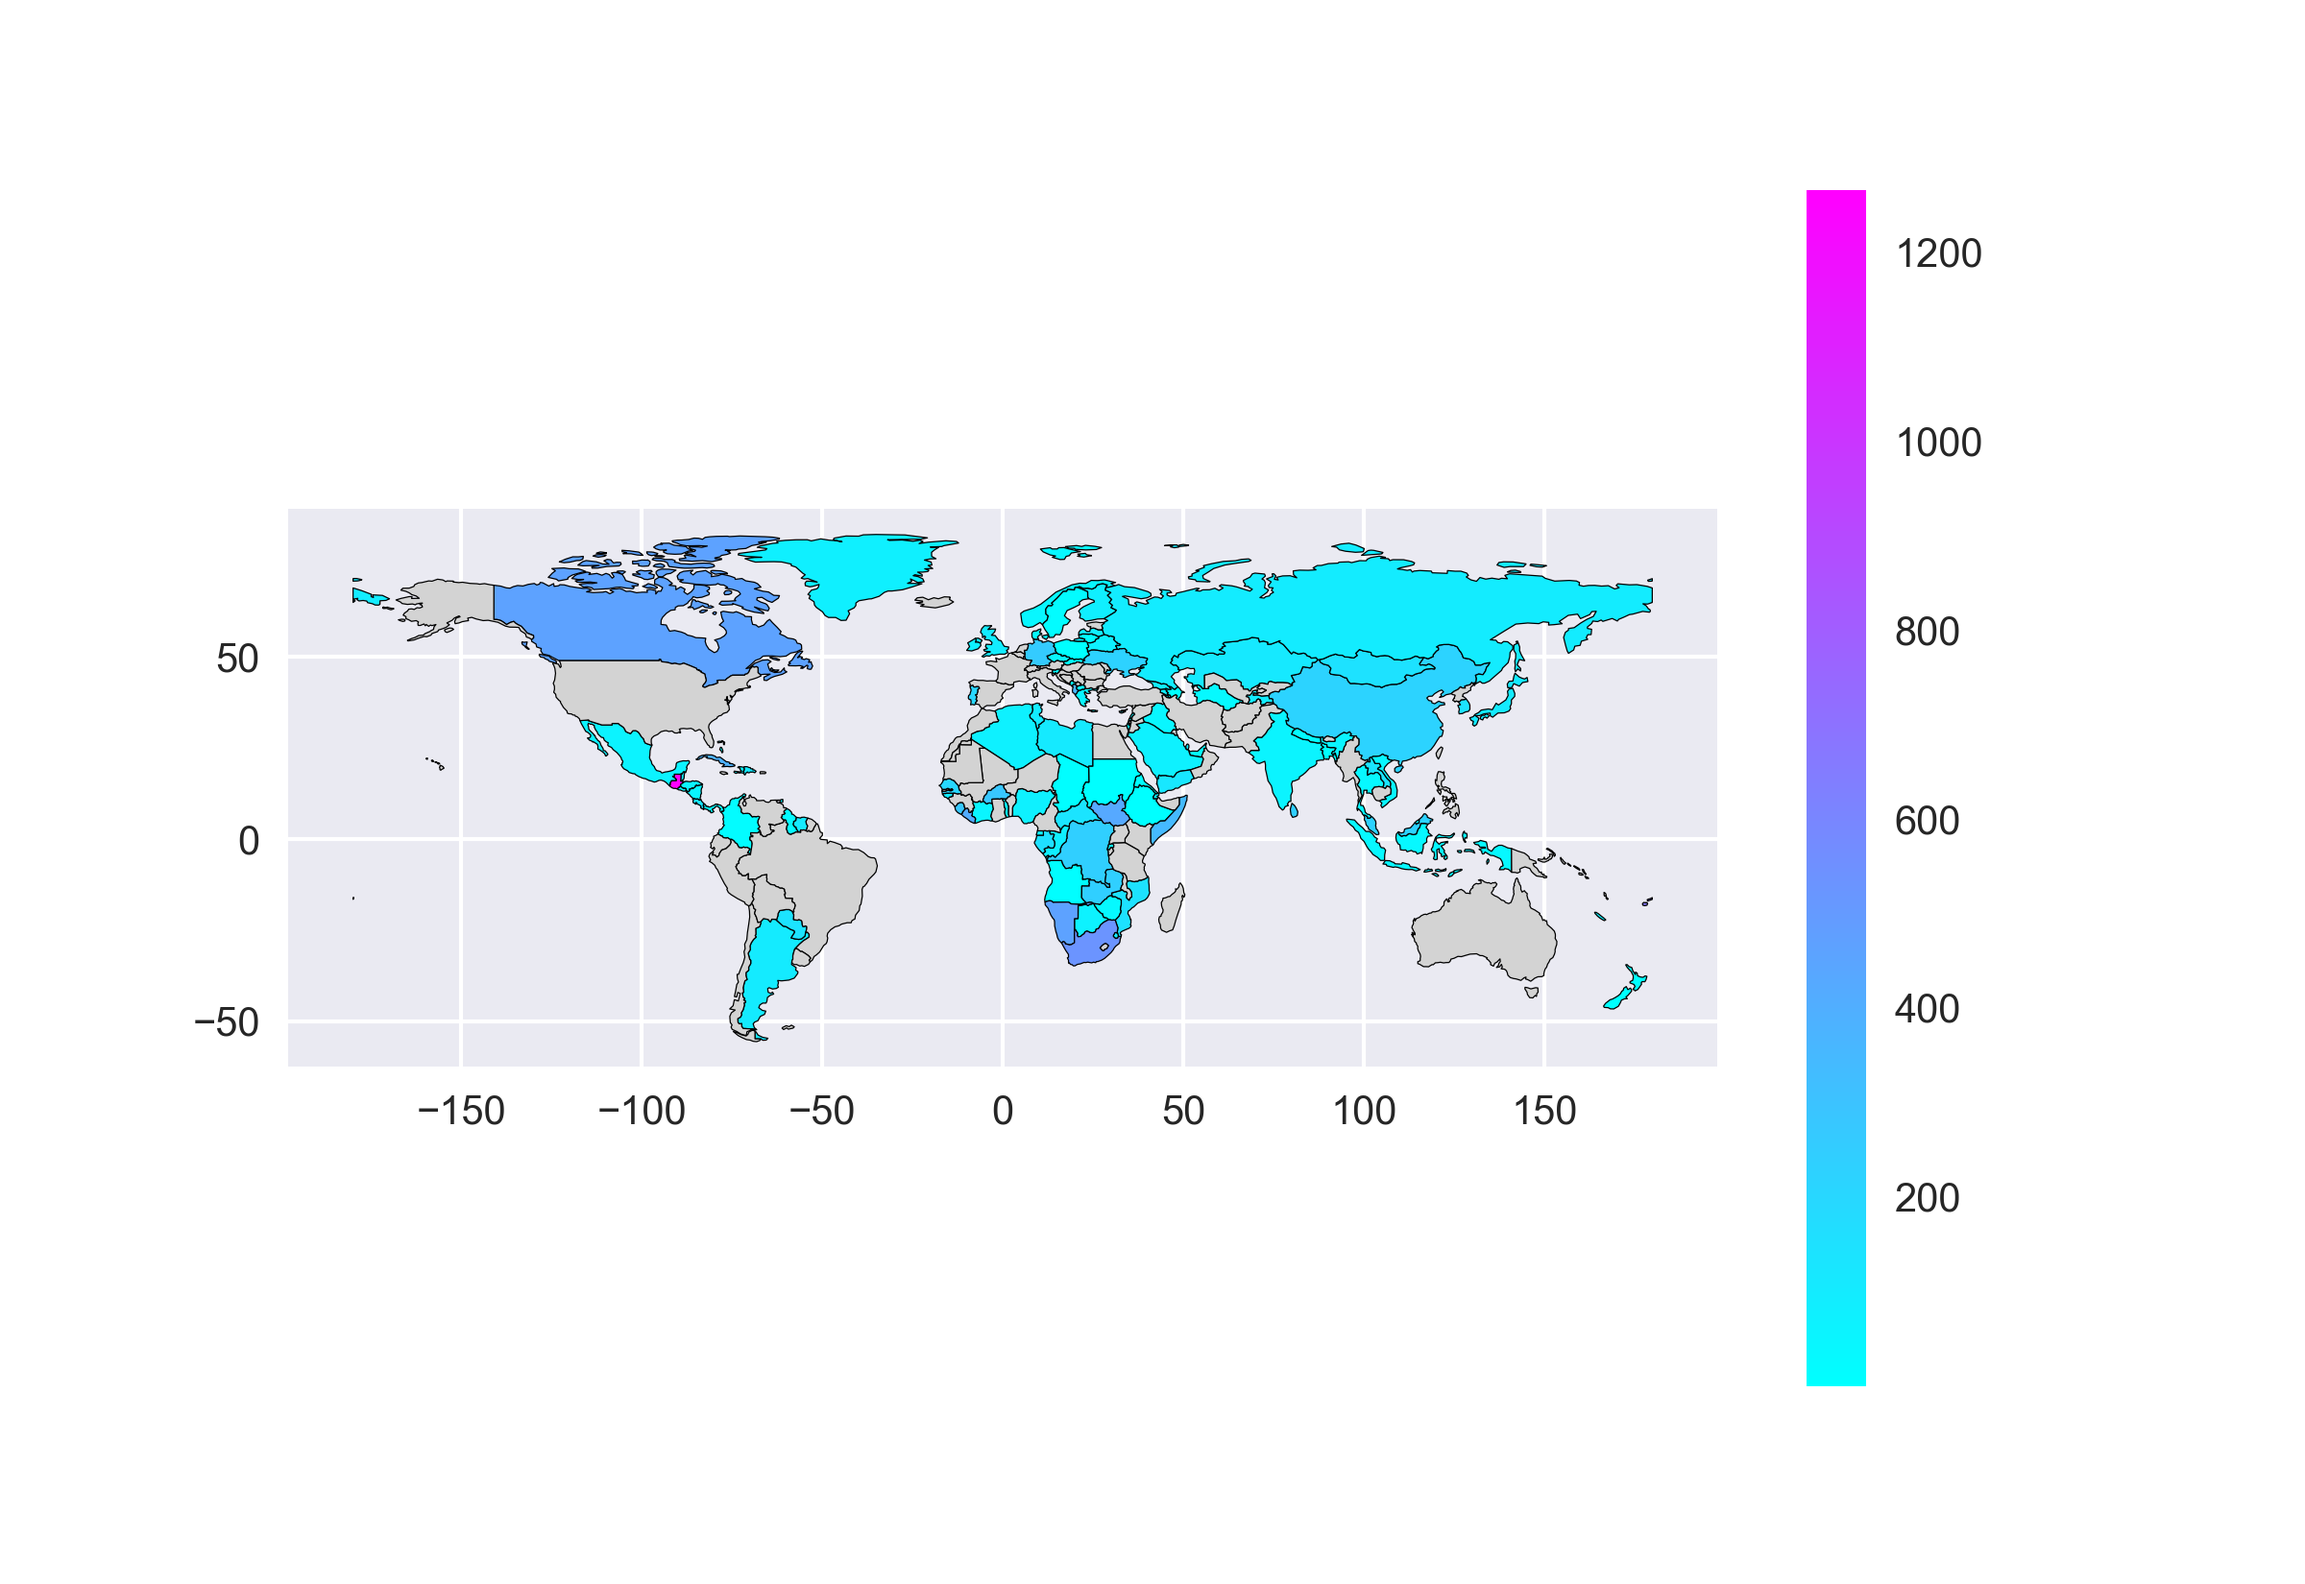
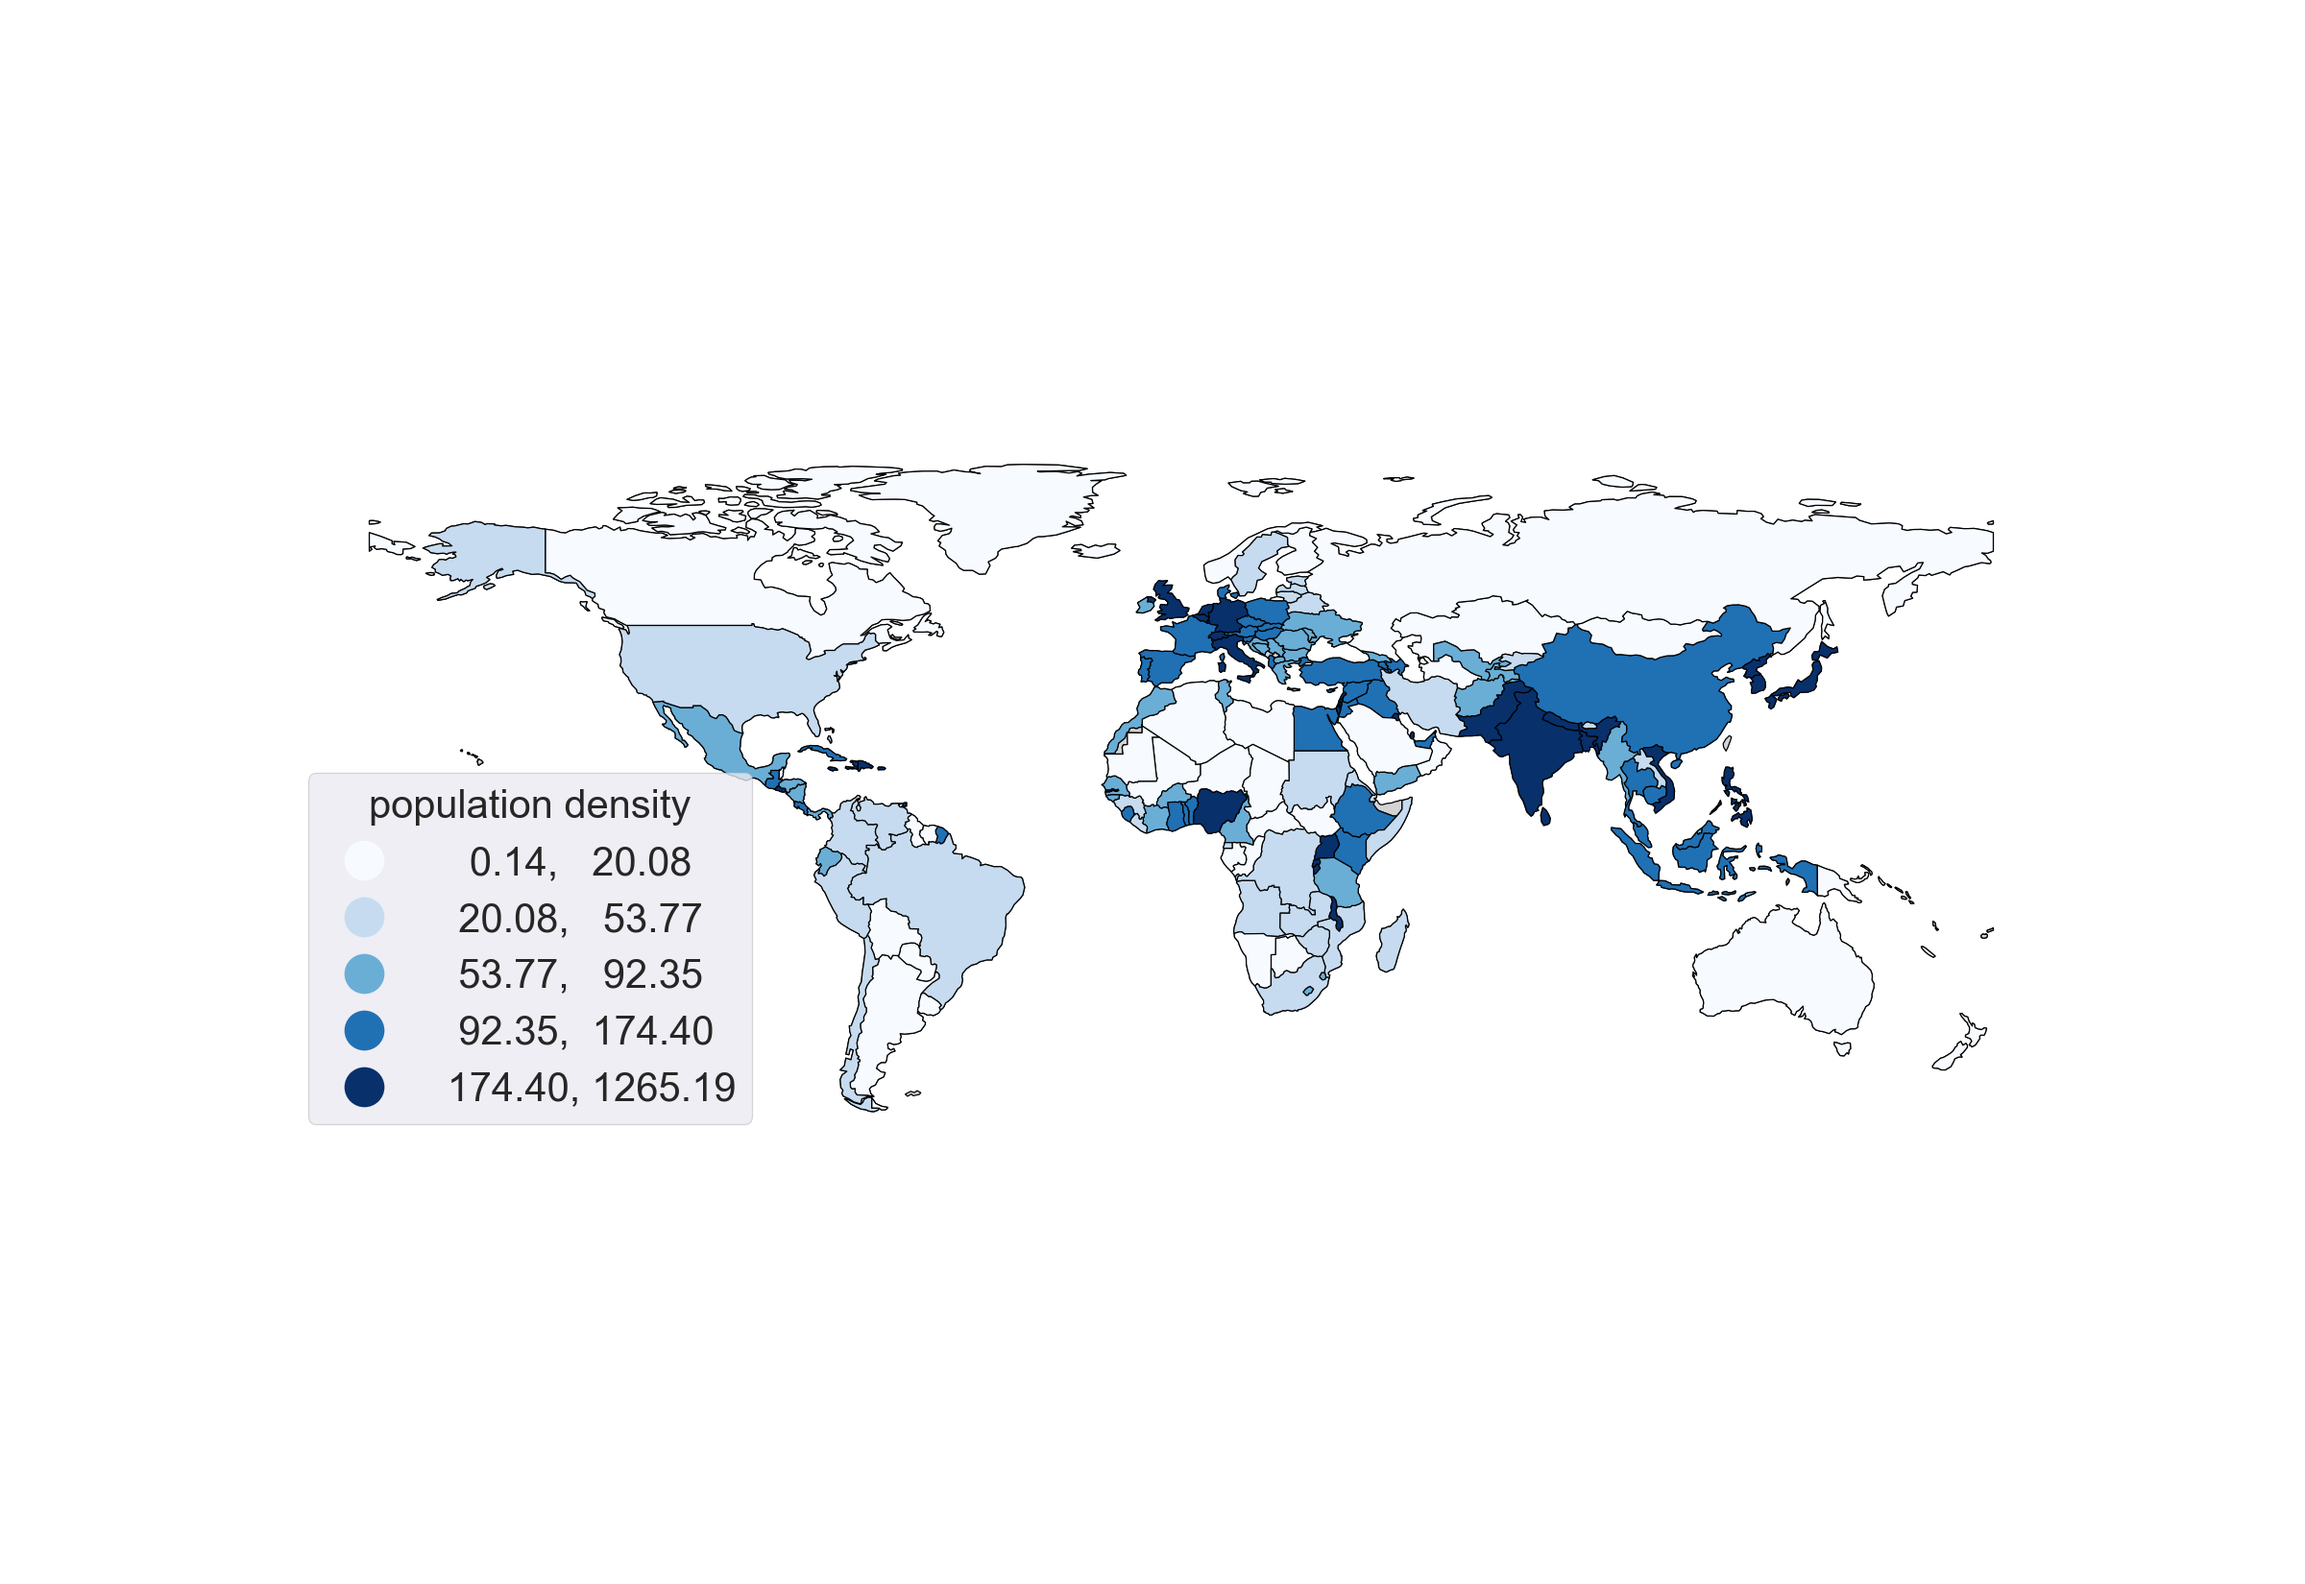
include the script, nicer plot

diff --git a/choropleth.py b/choropleth.py
@@ -1,0 +1,34 @@
+# -*- coding: utf-8 -*-
+"""
+Created on Sun Nov 21 12:11:43 2021
+
+@author: Yalin Li
+"""
+
+# Read map
+import geopandas as gpd
+world = gpd.read_file('world_map.json')
+world.plot() # see the world map
+world.plot('economy')
+
+# Read data
+import pandas as pd
+population = pd.read_csv('population_density.csv', skiprows=4)
+# Pass the value to the map
+filtered = world[world.iso_a3.isin(population.loc[:, 'Country Code'])].sort_values(by='iso_a3').reset_index(drop=True)
+population = population[population.loc[:, 'Country Code'].isin(world.iso_a3)].sort_values(by='Country Code').reset_index(drop=True)
+filtered['population_2020'] = population['2020']
+
+# Make the plot
+ax = world.plot(color='lightgrey', edgecolor='k') # plot the background
+filtered.plot('population_2020', cmap='Blues', edgecolor='k', legend=True,
+              scheme='quantiles', ax=ax) # you'll need the ``mapclassify`` package for using the scheme here
+
+legend = ax.get_legend()
+labels = [i.get_text() for i in legend.get_texts()]
+ax.legend(handles=legend.get_lines(), labels=labels,
+          loc='lower left', title='population density',
+          frameon=True, fancybox=True)
+          
+ax.set_axis_off() # if you don't want the axis		                
+ax.figure.show()

diff --git a/README.rst b/README.rst
@@ -2,7 +2,9 @@
 Plotting Choropleth Map in Python
 =================================
 
-Choropleth map color-codes an area with certain data, e.g., `population density <https://upload.wikimedia.org/wikipedia/commons/thumb/1/15/Living_population_density.png/900px-Living_population_density.png>`_. The instructions below provides a step-to-step guide of generating a choropleth in Python (world population density). Note that there are many alternative methods you can explore (e.g., [1]_, [2]_, [3]_ ), but I like ``geopandas`` since it's relatively lightweight and used in similar ways as ``pandas`` and ``matplotlib``.
+Choropleth map color-codes an area with certain data, e.g., `population density <https://upload.wikimedia.org/wikipedia/commons/thumb/1/15/Living_population_density.png/900px-Living_population_density.png>`_. The instructions below provides a step-to-step guide of generating a choropleth in Python (world population density). You can run the ``choropleth.py`` script to generate the figure.
+
+Note that there are many alternative methods you can explore (e.g., [1]_, [2]_, [3]_ ), but I like ``geopandas`` since it's relatively lightweight and used in similar ways as ``pandas`` and ``matplotlib``.
 
 
 Steps to generate a choropleth map
@@ -23,6 +25,7 @@ Steps to generate a choropleth map
 
 	.. code::
 
+		# Read map
 		import geopandas as gpd
 		world = gpd.read_file('world_map.json')
 		world.plot() # see the world map
@@ -31,30 +34,38 @@ Steps to generate a choropleth map
 
 	.. code::
 
-		world.plot('economy', legend=False)
+		world.plot('economy')
 
 
 #. To update the json data with the data on the population density.
 
 	.. code::
 
+		# Read data
 		import pandas as pd
 		population = pd.read_csv('population_density.csv', skiprows=4)
-		idx1 = world[world.iso_a3.isin(population.loc[:, 'Country Code'])].index
-		idx2 = population[population.loc[:, 'Country Code'].isin(world.iso_a3)].index
-		world.loc[idx1, 'population_2020'] = population.loc[idx2, '2020']
+		
+		# Pass the value to the map
+		filtered = world[world.iso_a3.isin(population.loc[:, 'Country Code'])].sort_values(by='iso_a3').reset_index(drop=True)
+		population = population[population.loc[:, 'Country Code'].isin(world.iso_a3)].sort_values(by='Country Code').reset_index(drop=True)
+		filtered['population_2020'] = population['2020']
 
 #. And now we can get the plot.
 
 	.. code::
 		
-		# Just to make it nicer
-		from matplotlib import pyplot as plt
-		plt.style.use('seaborn')
+		# Make the plot
+		ax = world.plot(color='lightgrey', edgecolor='k') # plot the background
+		filtered.plot('population_2020', cmap='Blues', edgecolor='k', legend=True,
+		              scheme='quantiles', ax=ax) # you'll need the ``mapclassify`` package for using the scheme here
 
-		missing_kwds = dict(color='lightgrey', label='No Data')
-		ax = world.plot('population_2020', cmap='cool', edgecolor='k', legend=True,
-		                missing_kwds=missing_kwds)
+		legend = ax.get_legend()
+		labels = [i.get_text() for i in legend.get_texts()]
+		ax.legend(handles=legend.get_lines(), labels=labels,
+		          loc='lower left', title='population density',
+		          frameon=True, fancybox=True)
+		          
+		ax.set_axis_off() # if you don't want the axis		                
 		ax.figure.show()
 
 #. Here's what I got, it certainly can be polished up, but the rest is just wrestling with ``matplotlib``, have fun!
